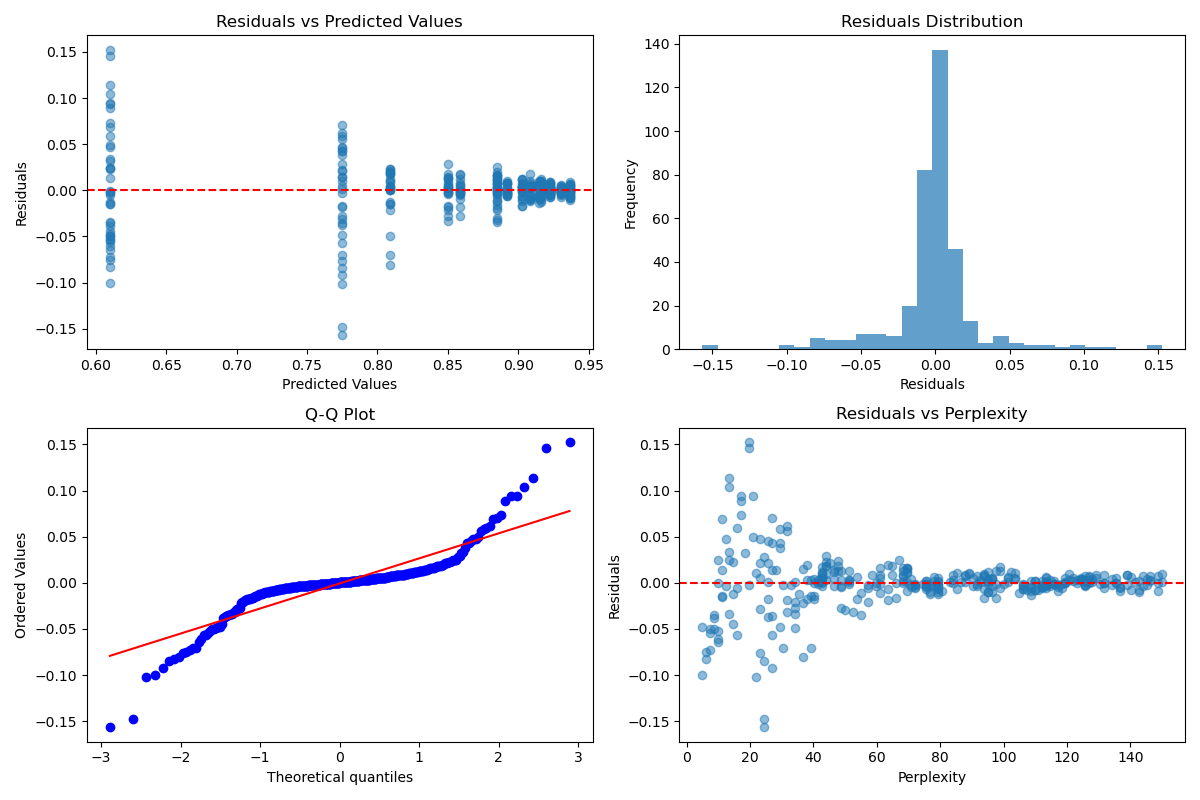
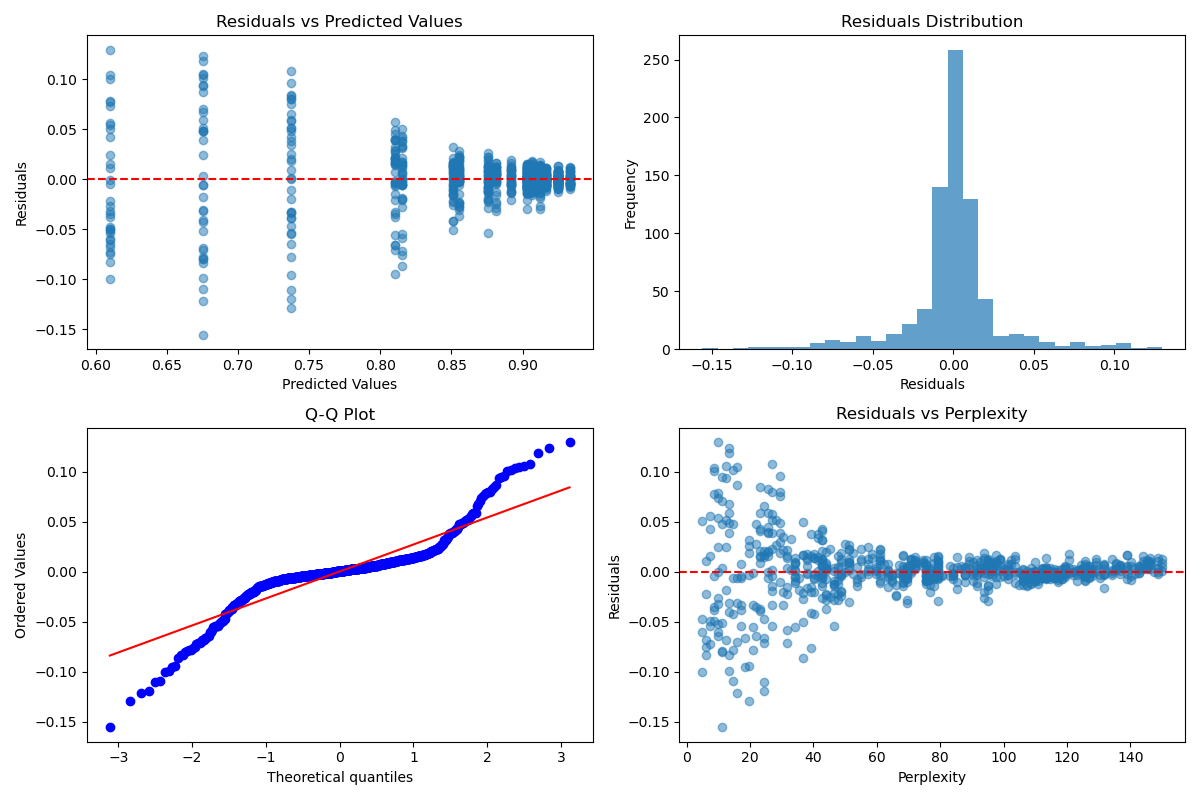
update

diff --git a/dtree_analysis.py b/dtree_analysis.py
@@ -302,13 +302,24 @@ plot_feature_importance(model_T30_new, feature_names=features_split, fontsize=12
 analyze_residuals(model_T30_new, X = data[data['Source']=='New'][features_split], y=data[data['Source']=='New']['T(30)'])
 
 
+model_T300_old = train_decision_tree(data, source='Old', features=features_split, target='T(300)', max_depth_input=4, min_samples_leaf_input=20)
+plot_decision_tree(model_T300_old, feature_names=features_split, max_depth_plot=7, title = "T(300) regression tree \n Pretreatment 1", fontsizetitle=15)
+plot_feature_importance(model_T300_old, feature_names=features_split, fontsize=12)
+analyze_residuals(model_T300_old, X = data[data['Source']=='Old'][features_split], y=data[data['Source']=='Old']['T(300)'])
+
+model_T300_new = train_decision_tree(data, source='New', features=features_split, target='T(300)', max_depth_input=4, min_samples_leaf_input=15)
+plot_decision_tree(model_T300_new, feature_names=features_split, max_depth_plot=7, title = "T(300) regression tree \n Pretreatment 2", fontsizetitle=15)
+plot_feature_importance(model_T300_new, feature_names=features_split, fontsize=12)
+analyze_residuals(model_T300_new, X = data[data['Source']=='New'][features_split], y=data[data['Source']=='New']['T(300)'])
+
+
 model_Stress_full = train_decision_tree(data, source=None, features=features, target='Stress', max_depth_input=7, min_samples_leaf_input=25)
-plot_decision_tree(model_Stress_full, feature_names=features, max_depth_plot=7)
+plot_decision_tree(model_Stress_full, feature_names=features, max_depth_plot=7, title='Stress regression tree')
 plot_feature_importance(model_Stress_full, feature_names=features, fontsize=12)
 analyze_residuals(model_Stress_full, X = data[features], y=data['Stress'])
 
 
-model_runtime_full = train_decision_tree(data, source=None, features=features, target='Runtime (sec)', max_depth_input=5, min_samples_leaf_input=25)
+model_runtime_full = train_decision_tree(data, source=None, features=features, target='Runtime (sec)', max_depth_input=5, min_samples_leaf_input=30)
 plot_decision_tree(model_runtime_full, feature_names=features, max_depth_plot=7)
 plot_feature_importance(model_runtime_full, feature_names=features, fontsize=12)
 analyze_residuals(model_runtime_full, X = data[features], y=data['Runtime (sec)'])

diff --git a/compile_outputs_stress_trutworthiness.py b/compile_outputs_stress_trutworthiness.py
@@ -963,13 +963,13 @@ plot_scatter_with_regression(
 
 pairscatter_colorcoded(
     df_merged_clean[df_merged_clean['Source'] == 'New'],
-    'Perplexity', 'T(30)',
-    color_col='Theta'
+    'Final momentum', 'T(300)',
+    color_col='Perplexity'
 )
 
 pairscatter_colorcoded(
     df_merged_clean[df_merged_clean['Source'] == 'Old'],
-    'Perplexity', 'T(30)',
+    'Perplexity', 'T(300)',
     color_col='Theta'
 )
 
@@ -1041,12 +1041,20 @@ analyze_correlation_by_perplexity(data=df_merged_clean, x = 'Final momentum', y_
                                   figsize=(12,8))
 
 
-analyze_correlation_by_perplexity(data=df_merged_clean, x = 'Theta', y_list=['T(30)'],
+analyze_correlation_by_perplexity(data=df_merged_clean, x = 'Theta', y_list=['T(30)', 'T(300)'],
                                   perplexity_col='Perplexity',
-                                  perplexity_bins_old=[0,40,155],
-                                  perplexity_bins_new=[0,40,155],
-                                  figsize=(10,5),
+                                  perplexity_bins_old=[0,50,155],
+                                  perplexity_bins_new=[0,50,155],
+                                  figsize=(12,8),
                                   font_size=14)
+
+analyze_correlation_by_perplexity(data=df_merged_clean, x = 'Theta', y_list=['T(30)', 'T(300)'],
+                                  perplexity_col='Perplexity',
+                                  perplexity_bins_old=[0,50,155],
+                                  perplexity_bins_new=[0,50,155],
+                                  figsize=(12,8),
+                                  font_size=14)
+
 
 analyze_correlation_by_perplexity(data=df_merged_clean, x = 'Early exaggeration', y_list=['T(30)', 'T(300)'],
                                   perplexity_col='Perplexity',
@@ -1167,8 +1175,8 @@ df_merged_clean[df_merged_clean['Source'] == 'Old'].drop(columns=['Runtime (min)
 fig, (ax1, ax2) = plt.subplots(1, 2, figsize=(15, 6))
 
 x = 'Perplexity'
-y = 'T(30)'
-color_col = 'Early exaggeration'
+y = 'T(300)'
+color_col = 'Final momentum'
 
 # Left plot (Old data)
 sns.scatterplot(
